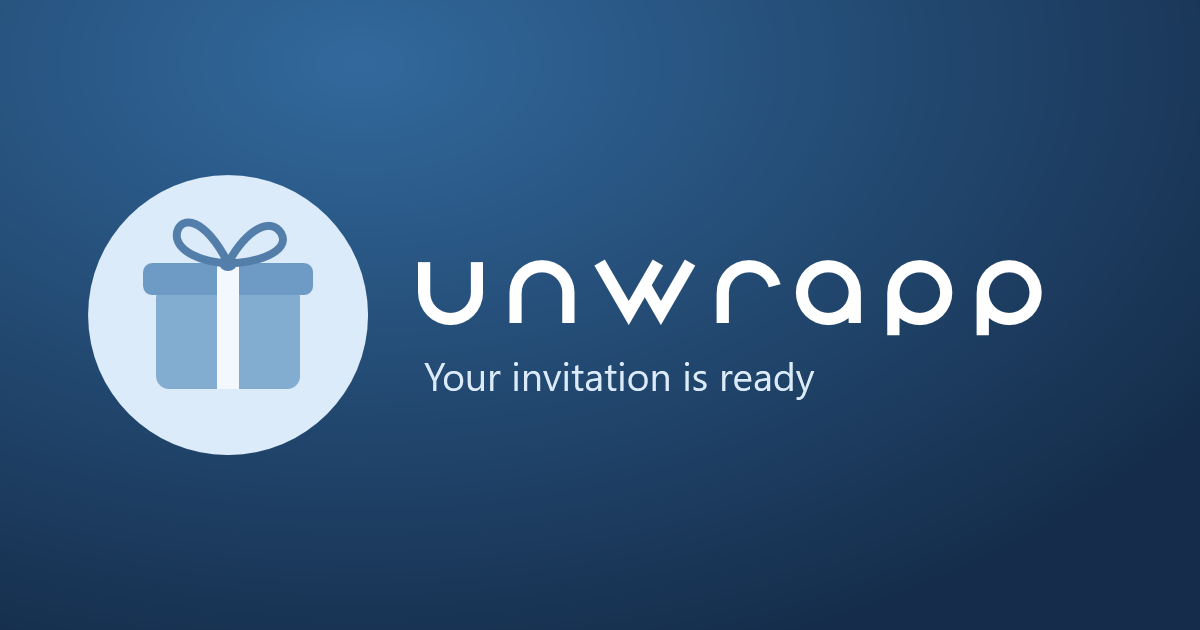
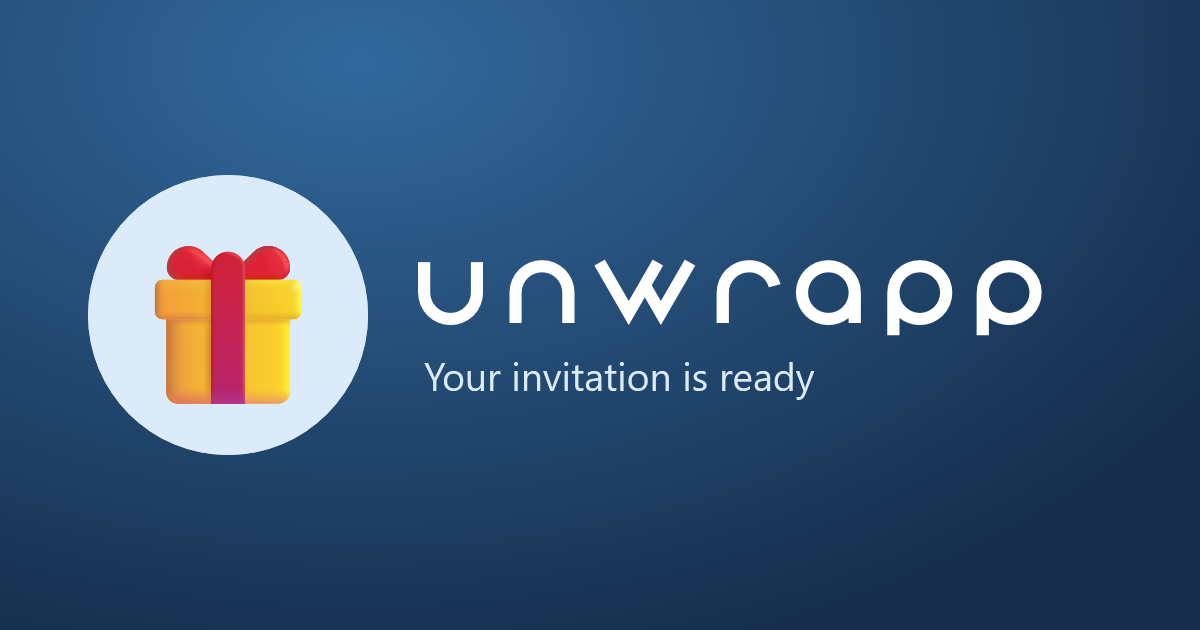
Use theme emoji in share preview artwork

Changed region(s): [[0.0925, 0.3317, 0.2775, 0.6635]]

diff --git a/valentines.html b/valentines.html
@@ -12,10 +12,10 @@
   <meta property="og:title" content="❤ Your Unwrapp Valentine Invitation">
   <meta property="og:description" content="Your Valentine’s assignment is ready. Tap to open your invitation!">
   <meta property="og:url" content="https://paco-jasso.github.io/unwrap-web/valentines.html">
-  <meta property="og:image" content="https://paco-jasso.github.io/unwrap-web/unwrap-valentines-preview.png?v=2">
+  <meta property="og:image" content="https://paco-jasso.github.io/unwrap-web/unwrap-valentines-preview.png?v=3">
   <meta property="og:image:width" content="1200">
   <meta property="og:image:height" content="630">
-  <meta property="og:image:alt" content="A soft pink gift icon and the words Unwrapp and Valentine’s">
+  <meta property="og:image:alt" content="A red heart emoji and the words Unwrapp and Valentine’s on a magenta background">
   <link rel="stylesheet" href="./unwrap.css">
   <script src="./unwrap.js" defer></script>
 </head>

diff --git a/christmas.html b/christmas.html
@@ -12,10 +12,10 @@
   <meta property="og:title" content="🎄 Your Unwrapp Secret Santa Invitation">
   <meta property="og:description" content="Your Secret Santa assignment is ready. Tap to open your invitation!">
   <meta property="og:url" content="https://paco-jasso.github.io/unwrap-web/christmas.html">
-  <meta property="og:image" content="https://paco-jasso.github.io/unwrap-web/unwrap-christmas-preview.png?v=2">
+  <meta property="og:image" content="https://paco-jasso.github.io/unwrap-web/unwrap-christmas-preview.png?v=3">
   <meta property="og:image:width" content="1200">
   <meta property="og:image:height" content="630">
-  <meta property="og:image:alt" content="A soft green gift icon and the words Unwrapp and Secret Santa">
+  <meta property="og:image:alt" content="A Christmas tree emoji and the words Unwrapp and Secret Santa on a green background">
   <link rel="stylesheet" href="./unwrap.css">
   <script src="./unwrap.js" defer></script>
 </head>

diff --git a/index.html b/index.html
@@ -12,10 +12,10 @@
   <meta property="og:title" content="🎁 Your Unwrapp Invitation">
   <meta property="og:description" content="Your surprise is ready. Tap to open your invitation!">
   <meta property="og:url" content="https://paco-jasso.github.io/unwrap-web/">
-  <meta property="og:image" content="https://paco-jasso.github.io/unwrap-web/unwrap-preview.png?v=2">
+  <meta property="og:image" content="https://paco-jasso.github.io/unwrap-web/unwrap-preview.png?v=3">
   <meta property="og:image:width" content="1200">
   <meta property="og:image:height" content="630">
-  <meta property="og:image:alt" content="A soft blue gift icon and the words Unwrapp and Your invitation is ready">
+  <meta property="og:image:alt" content="A gift emoji and the words Unwrapp and Your invitation is ready on a blue background">
   <link rel="stylesheet" href="./unwrap.css">
   <script src="./unwrap.js" defer></script>
 </head>
